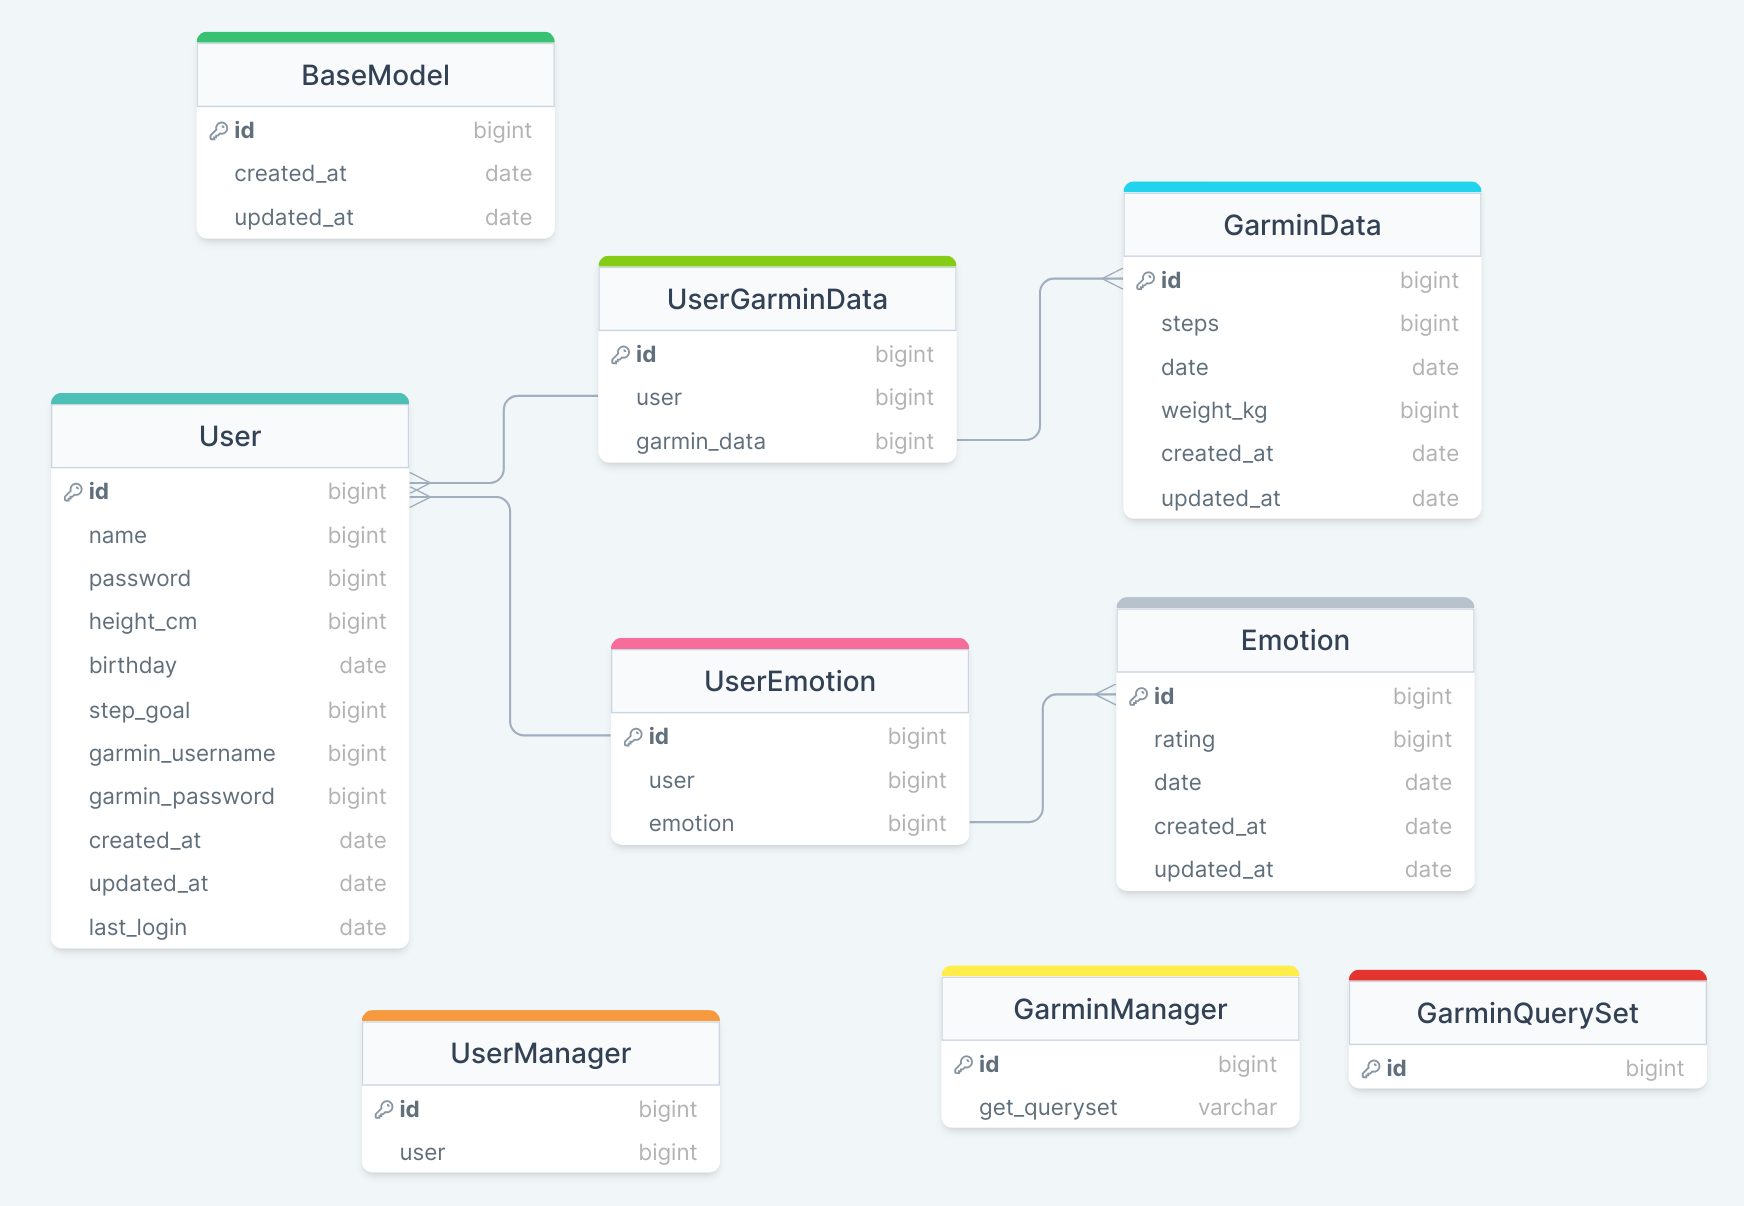
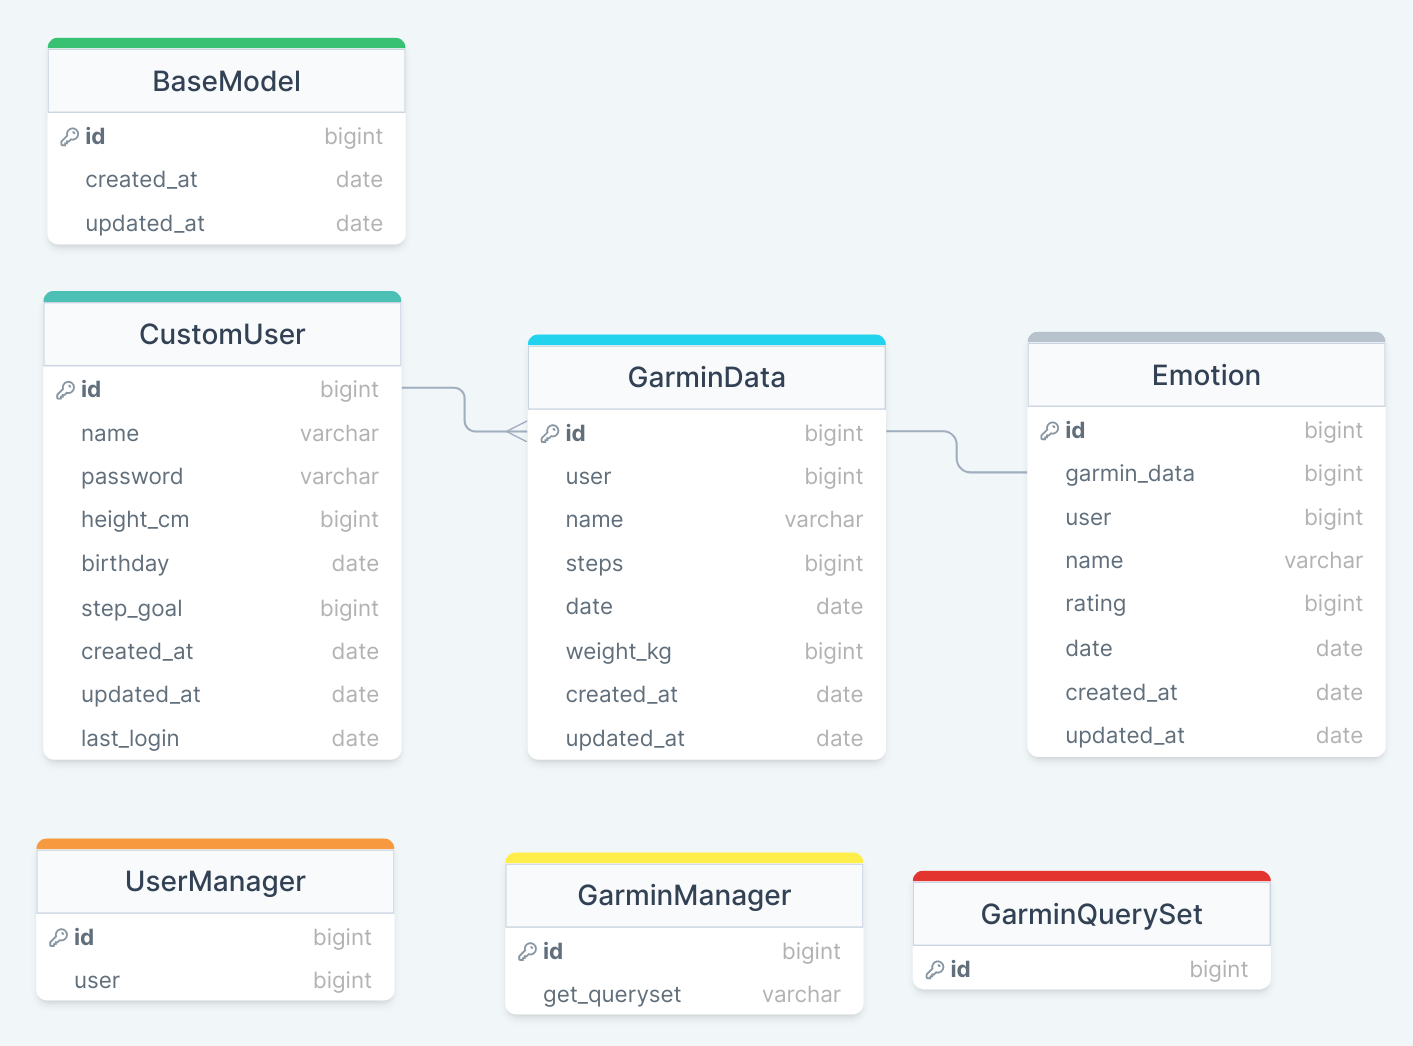
update model and description in README

diff --git a/README.md b/README.md
@@ -131,8 +131,8 @@ The website consits of several pages, and a 404 page and are responsive, designe
 User data are stored in a relational database. The main model has been carefully designed to allow for emotional ratings and API calls from the Garmin Connect App:
 
 - **User**: each row is a user that has signed up on the website
-- **GarminData**:  each row is an entry as read from the Garmin API (Many-to-Many Field)
-- **EmotionRating**:  each row is a rating that a User for a specific date (Many-to-Many Field)
+- **GarminData**:  each row is an entry as read from the Garmin API for a specific date and user
+- **EmotionRating**:  each row is a user rating for a specific date 
 
 <table style='width:90%; content-align:center'>
     <tr>
